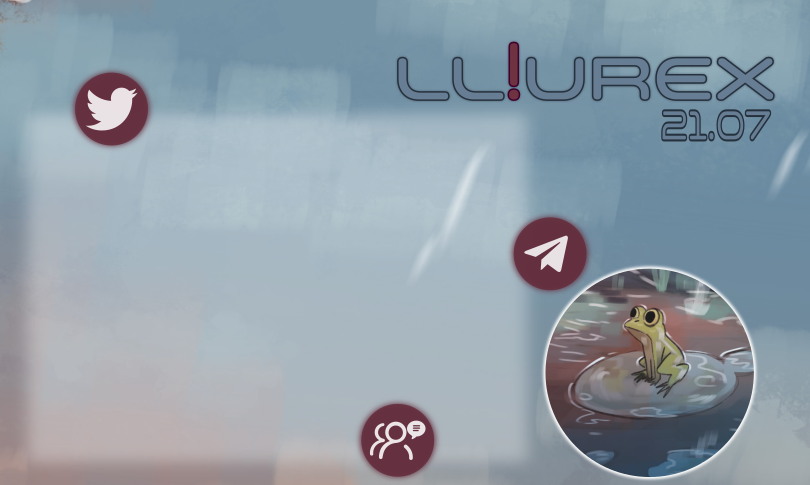
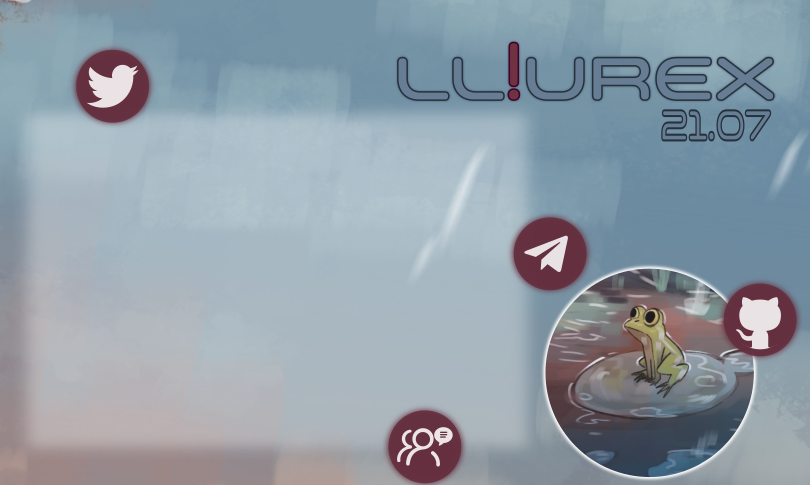
Adding new Ubiquity slideshow

Changed region(s): [[0.0309, 0.8041, 0.6481, 1.0], [0.0617, 0.0928, 0.1852, 0.3093], [0.8642, 0.5567, 0.9877, 0.7423]]

diff --git a/lliurex/branding/lliurex/lang/calamares-lliurex_ca@valencia.ts b/lliurex/branding/lliurex/lang/calamares-lliurex_ca@valencia.ts
@@ -1,0 +1,57 @@
+<?xml version="1.0" encoding="utf-8"?>
+<!DOCTYPE TS>
+<TS version="2.1" language="ca">
+<context>
+    <name>show</name>
+    <message>
+        <location filename="../show.qml" line="48"/>
+        <source>LliureX is an initiative driven by the Department of Education of Regional Government with the purpose of using free software ICTs in the Valencian Education System, so as to allow its users to enjoy a thoughtful and fine user experience.&lt;br/&gt;</source>
+        <translation>LliureX es una iniciativa impulsada per la Conselleria d&apos;Educació, Cultura i Esport de la Generalitat Valenciana per a utilitzar les TIC de programari lliure en el sistema educatiu valencià i d&apos;aquesta manera permetre als usuaris gaudir d&apos;una experiència agradable i senzilla.&lt;br/&gt;</translation>
+    </message>
+    <message>
+        <location filename="../show.qml" line="49"/>
+        <source>LliureX is a Custom Ubuntu GNU/Linux Distribution (CDD) intended as an operating system for educational institutions.</source>
+        <translation>LliureX és una distribució personalitzada d&apos;Ubuntu GNU / Linux (CDD) dissenyada com a sistema operatiu per a institucions educatives.</translation>
+    </message>
+    <message>
+        <location filename="../show.qml" line="50"/>
+        <source>While LliureX is installed, this slideshow will show you around its main features.</source>
+        <translation>Mentre s&apos;instal·la LliureX, aquesta presentació us mostrarà les seues característiques principals.</translation>
+    </message>
+    <message>
+        <location filename="../show.qml" line="82"/>
+        <source>Getting Help</source>
+        <translation>Obteniu ajuda</translation>
+    </message>
+    <message>
+        <location filename="../show.qml" line="96"/>
+        <source>&lt;div&gt;&lt;h4&gt;</source>
+        <translation>&lt;div&gt;&lt;h4&gt;</translation>
+    </message>
+    <message>
+        <location filename="../show.qml" line="97"/>
+        <source>&lt;p&gt;If you need help, you can contact us:&lt;/p&gt;</source>
+        <translation>&lt;p&gt;Si necessiteu ajuda, podeu contactar amb nosaltres:&lt;/p&gt;</translation>
+    </message>
+    <message>
+        <location filename="../show.qml" line="98"/>
+        <source>&lt;ul&gt;&lt;li&gt;Using our forum webpage at Mestre a casa https://mestreacasa.gva.es/web/lliurex/forums&lt;/li&gt;</source>
+        <translation>&lt;ul&gt;&lt;li&gt;Utilitzeu el nostre fòrum Mestre a casa https://mestreacasa.gva.es/web/lliurex/forums&lt;/li&gt;</translation>
+    </message>
+    <message>
+        <location filename="../show.qml" line="99"/>
+        <source>&lt;li&gt;Subscribe &amp; collaborate with LliureX project at GitHub.&lt;/li&gt;</source>
+        <translation>&lt;li&gt;Subscriviu-vos  i col·laborar en la pàgina del projecte LliureX a GitHub.&lt;/li&gt;</translation>
+    </message>
+    <message>
+        <location filename="../show.qml" line="100"/>
+        <source>&lt;li&gt;At our Telegram account https://t.me/comunitat_lliurex&lt;/li&gt;&lt;/ul&gt;</source>
+        <translation>&lt;li&gt;El nostre compte de Telegram https://t.me/comunitat_lliurex&lt;/li&gt;&lt;/ul&gt;</translation>
+    </message>
+    <message>
+        <location filename="../show.qml" line="101"/>
+        <source>&lt;div&gt;&lt;p&gt;The installation will finish soon. We hope you enjoy LliureX 21.&lt;/p&gt;&lt;/div&gt;&lt;/h4&gt;&lt;/div&gt;&lt;/div&gt;</source>
+        <translation>&lt;div&gt;&lt;p&gt;La instal·lació finalitzarà prompte. Esperem que disfruteu de LliureX 21.&lt;/p&gt;&lt;/div&gt;&lt;/h4&gt;&lt;/div&gt;&lt;/div&gt;</translation>
+    </message>
+</context>
+</TS>

diff --git a/lliurex/branding/lliurex/lang/calamares-lliurex_es.ts b/lliurex/branding/lliurex/lang/calamares-lliurex_es.ts
@@ -1,0 +1,57 @@
+<?xml version="1.0" encoding="utf-8"?>
+<!DOCTYPE TS>
+<TS version="2.1" language="es_ES">
+<context>
+    <name>show</name>
+    <message>
+        <location filename="../show.qml" line="48"/>
+        <source>LliureX is an initiative driven by the Department of Education of Regional Government with the purpose of using free software ICTs in the Valencian Education System, so as to allow its users to enjoy a thoughtful and fine user experience.&lt;br/&gt;</source>
+        <translation>LliureX es una iniciativa impulsada por la Conselleria de Educación de la Generalitat Valenciana con el fin de utilizar las TIC de software libre en el Sistema Educativo Valenciano, y así permitir a sus usuarios disfrutar de una experiencia de usuario agradable y sencilla.&lt;br/&gt;</translation>
+    </message>
+    <message>
+        <location filename="../show.qml" line="49"/>
+        <source>LliureX is a Custom Ubuntu GNU/Linux Distribution (CDD) intended as an operating system for educational institutions.</source>
+        <translation>LliureX es una distribución personalizada de Ubuntu GNU / Linux (CDD) diseñada como un sistema operativo para instituciones educativas.</translation>
+    </message>
+    <message>
+        <location filename="../show.qml" line="50"/>
+        <source>While LliureX is installed, this slideshow will show you around its main features.</source>
+        <translation>Mientras se instala LliureX 21, esta presentación te mostrará sus características principales.</translation>
+    </message>
+    <message>
+        <location filename="../show.qml" line="82"/>
+        <source>Getting Help</source>
+        <translation>Obtener ayuda</translation>
+    </message>
+    <message>
+        <location filename="../show.qml" line="96"/>
+        <source>&lt;div&gt;&lt;h4&gt;</source>
+        <translation>&lt;div&gt;&lt;h4&gt;</translation>
+    </message>
+    <message>
+        <location filename="../show.qml" line="97"/>
+        <source>&lt;p&gt;If you need help, you can contact us:&lt;/p&gt;</source>
+        <translation>&lt;p&gt;Si necesitas ayuda, puedes contactar con el equipo de LliureX:&lt;/p&gt;</translation>
+    </message>
+    <message>
+        <location filename="../show.qml" line="98"/>
+        <source>&lt;ul&gt;&lt;li&gt;Using our forum webpage at Mestre a casa https://mestreacasa.gva.es/web/lliurex/forums&lt;/li&gt;</source>
+        <translation>&lt;ul&gt;&lt;li&gt;Utiliza nuestro foro de Mestre a Casa https://mestreacasa.gva.es/web/lliurex/forums&lt;/li&gt;</translation>
+    </message>
+    <message>
+        <location filename="../show.qml" line="99"/>
+        <source>&lt;li&gt;Subscribe &amp; collaborate with LliureX project at GitHub.&lt;/li&gt;</source>
+        <translation>&lt;li&gt;Subscribete y colabora con nuestro proyecto en GitHub.&lt;/li&gt;</translation>
+    </message>
+    <message>
+        <location filename="../show.qml" line="100"/>
+        <source>&lt;li&gt;At our Telegram account https://t.me/comunitat_lliurex&lt;/li&gt;&lt;/ul&gt;</source>
+        <translation>&lt;li&gt;Unete a nuestro grupo de Telegram https://t.me/comunitat_lliurex&lt;/li&gt;&lt;/ul&gt;</translation>
+    </message>
+    <message>
+        <location filename="../show.qml" line="101"/>
+        <source>&lt;div&gt;&lt;p&gt;The installation will finish soon. We hope you enjoy LliureX 21.&lt;/p&gt;&lt;/div&gt;&lt;/h4&gt;&lt;/div&gt;&lt;/div&gt;</source>
+        <translation>&lt;div&gt;&lt;p&gt;La instalación finalizará pronto. Esperamos que disfrutes de LliureX 21.&lt;/p&gt;&lt;/div&gt;&lt;/h4&gt;&lt;/div&gt;&lt;/div&gt;</translation>
+    </message>
+</context>
+</TS>

diff --git a/lliurex/branding/lliurex/show.qml b/lliurex/branding/lliurex/show.qml
@@ -40,13 +40,14 @@ Presentation
             fillMode: Image.Pad
         }
         Text {
-            x:350
-            y:190
+            x:335
+            y:170
             width:430
-            height:500
+            height:510
             text: 
-                  qsTr("LliureX is an initiative driven by the Department of Education of Regional Government with the purpose of using free software ICTs in the Valencian Education System, so as to allow its users to enjoy a thoughtful and fine user experience.<br/>")+"<br/>"+
-                  qsTr("LliureX is a Custom Ubuntu GNU/Linux Distribution (CDD) intended as an operating system for educational institutions.")
+                  qsTr("LliureX is an initiative driven by the Department of Education of Regional Government with the purpose of using free software ICTs in the Valencian Education System, so as to allow its users to enjoy a thoughtful and fine user experience.<br/>")+
+                  qsTr("LliureX is a Custom Ubuntu GNU/Linux Distribution (CDD) intended as an operating system for educational institutions.")+"<br/><br/>"+
+                  qsTr("While LliureX is installed, this slideshow will show you around its main features.")
             wrapMode: Text.WordWrap
             color:"#25313D"
             font.family:"noto"
@@ -70,7 +71,7 @@ Presentation
         }
         Text {
             x:50
-            y:160
+            y:130
             width:430
             height:500
             color: "#642e3e"
@@ -84,7 +85,7 @@ Presentation
 
         Text {
             x:50
-            y:200
+            y:180
             width:450
             height:500
             wrapMode:Text.WordWrap
@@ -94,10 +95,10 @@ Presentation
             textFormat: Text.RichText
             text:qsTr("<div><h4>")+
             qsTr("<p>If you need help, you can contact us:</p>")+
-            qsTr("<ul><li>Using our webpage at Mestre a casa </li>")+
-            qsTr("<li>On the mailing list, subscribe on the page of LliureX project at GitHub.</li>")+
-            qsTr("<li>At our twitter account @lliurex at Twitter</li></ul>")+
-            qsTr("<div><p>The installation will finish soon. We hope you enjoy LliureX.</p></div></h4></div></div>")
+            qsTr("<ul><li>Using our forum webpage at Mestre a casa https://mestreacasa.gva.es/web/lliurex/forums</li>")+
+            qsTr("<li>Subscribe & collaborate with LliureX project at GitHub.</li>")+
+            qsTr("<li>At our Telegram account https://t.me/comunitat_lliurex</li></ul>")+
+            qsTr("<div><p>The installation will finish soon. We hope you enjoy LliureX 21.</p></div></h4></div></div>")
 
                   
            
